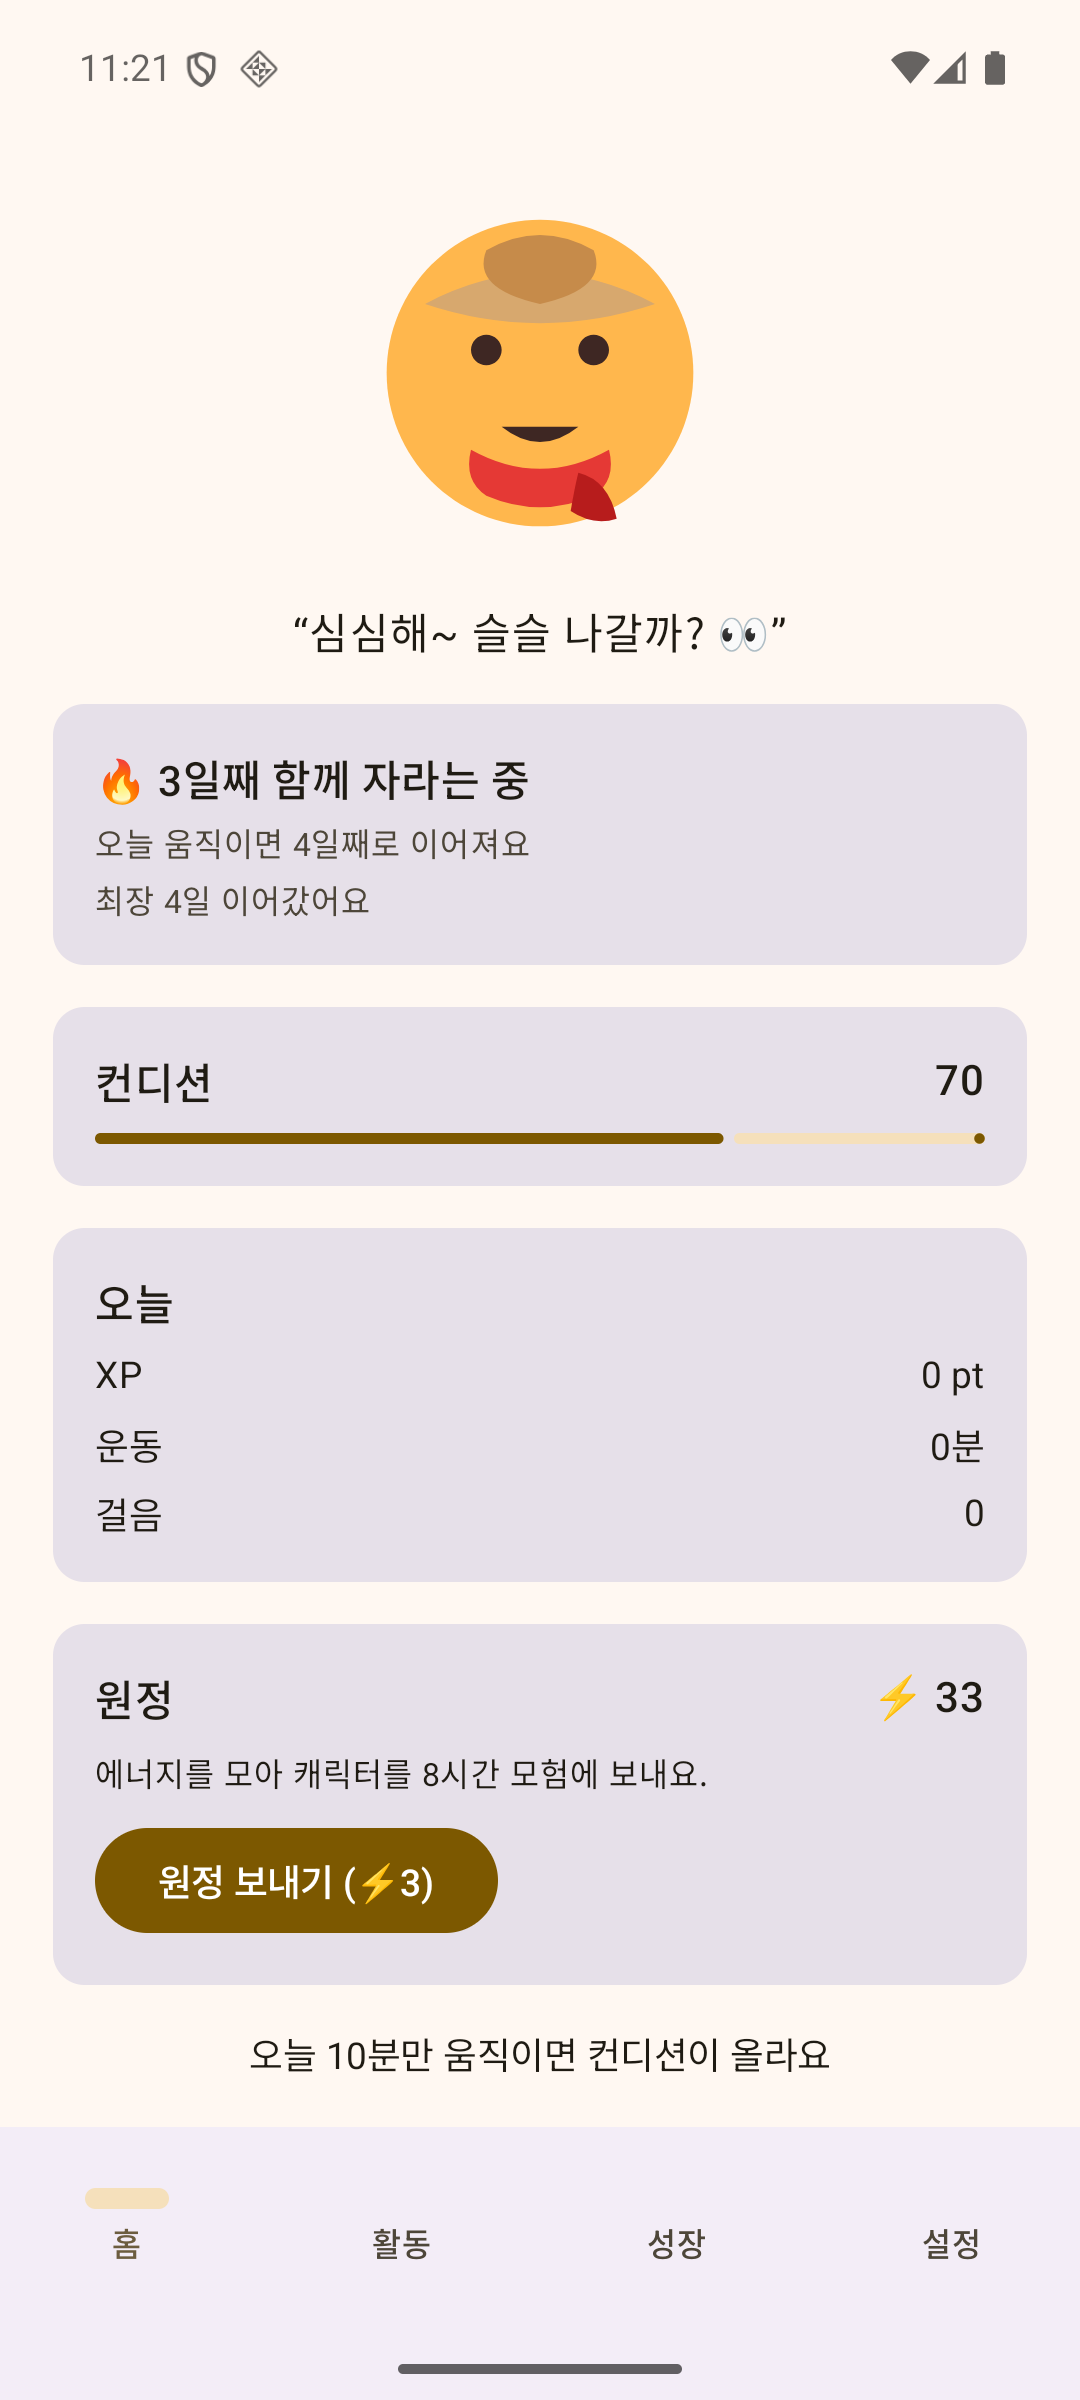
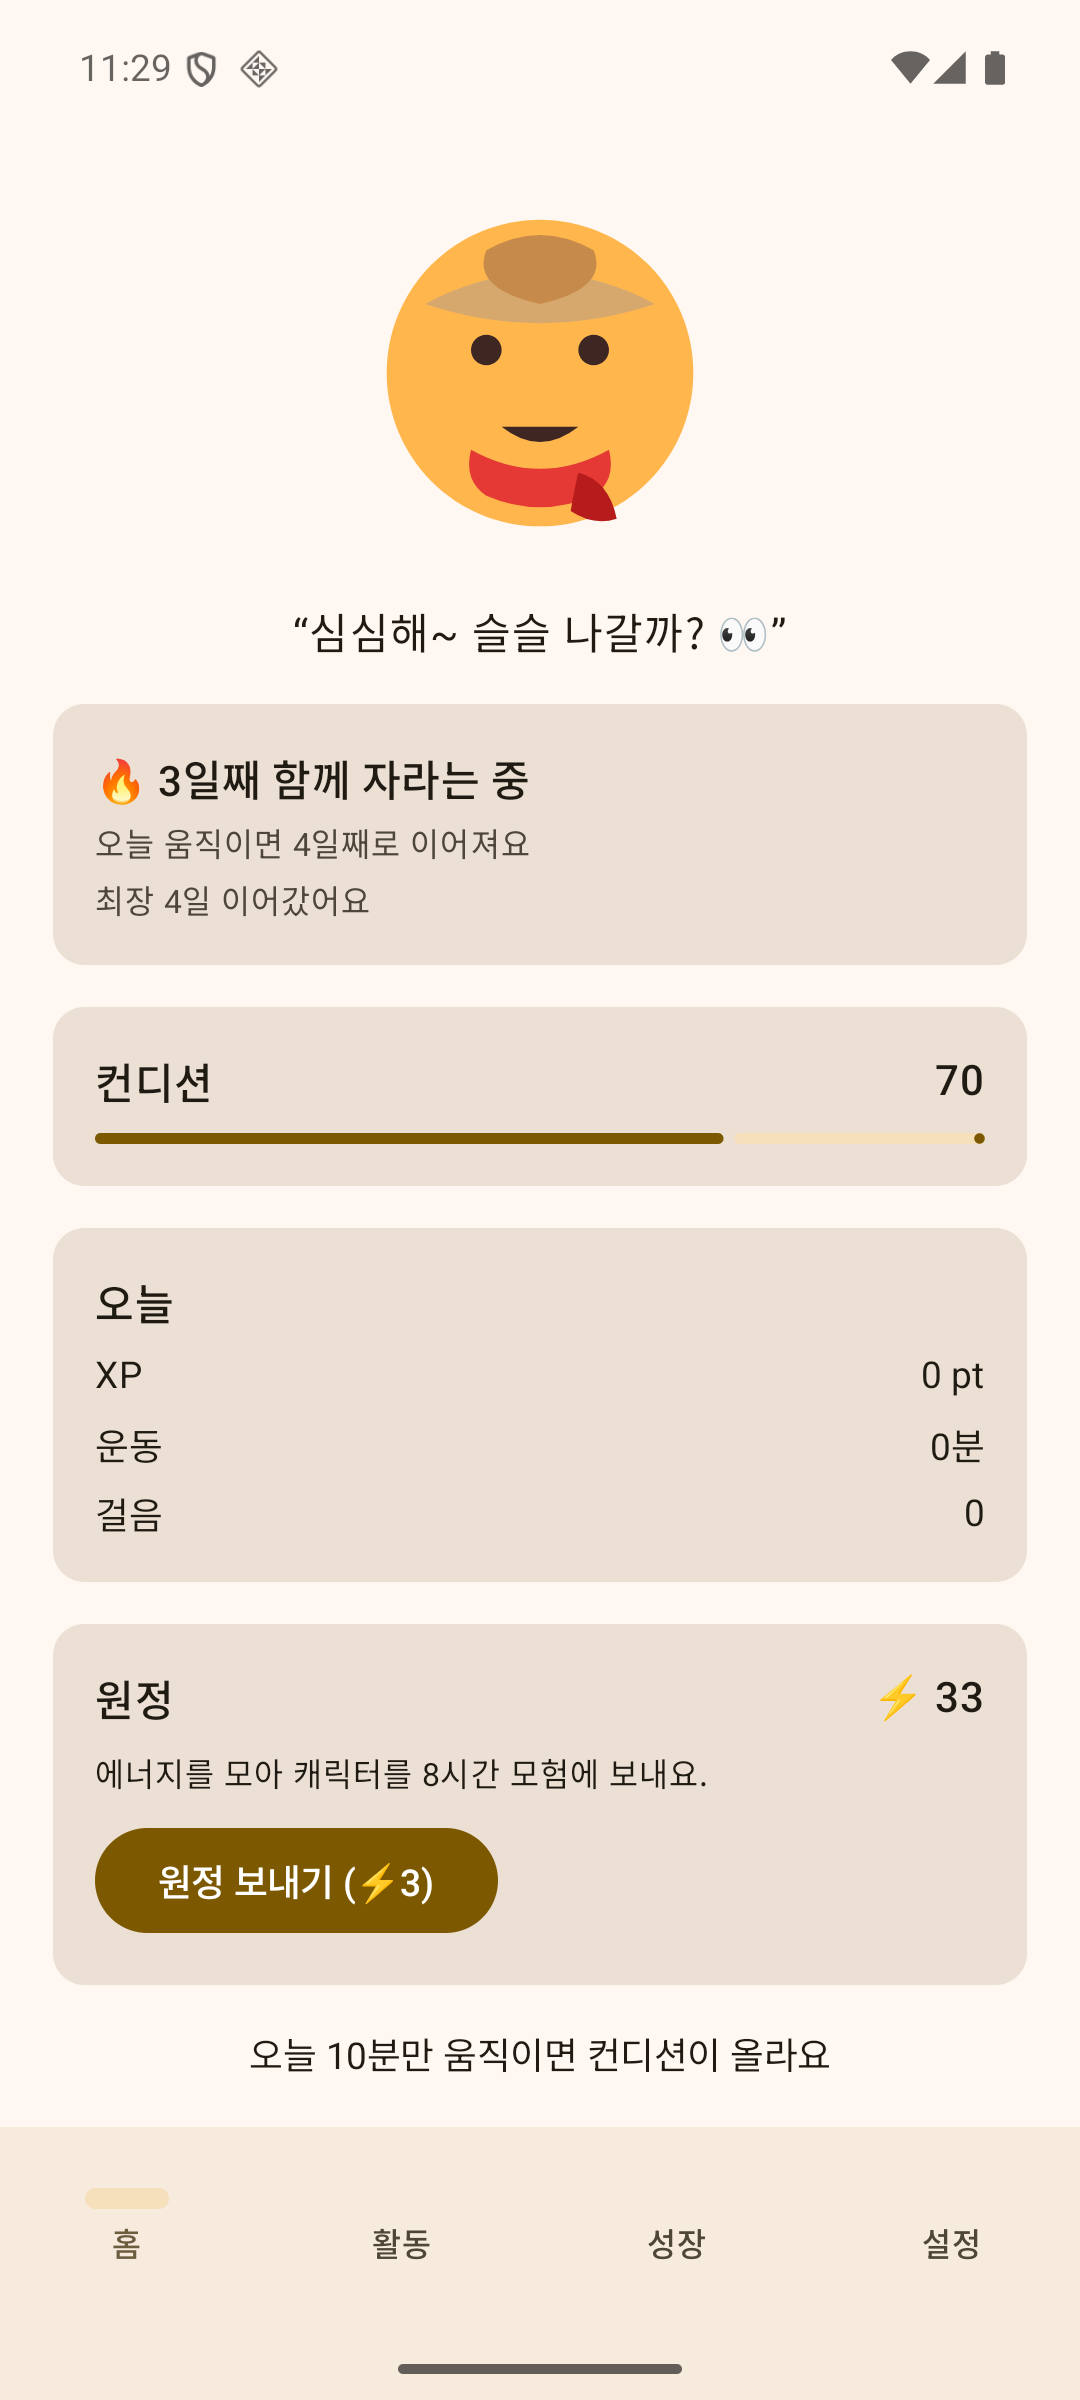
fix(ui): surfaceContainer 롤 채워 카드·내비바 브랜드 톤화 (#251)

Changed region(s): [[0.0, 0.875, 1.0, 1.0]]

diff --git a/kotlin/app/src/main/kotlin/com/nexus/app/ui/NexusColors.kt b/kotlin/app/src/main/kotlin/com/nexus/app/ui/NexusColors.kt
@@ -37,6 +37,15 @@ internal val NexusLightColors = lightColorScheme(
     onSurfaceVariant = Color(0xFF4D4639),
     outline = Color(0xFF7F7767),
     outlineVariant = Color(0xFFD0C5B4),
+    // surfaceContainer 계열 — Card(surfaceContainerLow)·NavigationBar(surfaceContainer) 기본 배경.
+    // 미지정 시 M3 기본 라벤더로 폴백하므로 warm 중성 톤으로 채운다(#251 리뷰).
+    surfaceDim = Color(0xFFE3D7C8),
+    surfaceBright = Color(0xFFFFF8F2),
+    surfaceContainerLowest = Color(0xFFFFFFFF),
+    surfaceContainerLow = Color(0xFFFDF1E4),
+    surfaceContainer = Color(0xFFF7EBDE),
+    surfaceContainerHigh = Color(0xFFF1E6D8),
+    surfaceContainerHighest = Color(0xFFEBE0D3),
 )
 
 internal val NexusDarkColors = darkColorScheme(
@@ -64,4 +73,12 @@ internal val NexusDarkColors = darkColorScheme(
     onSurfaceVariant = Color(0xFFD0C5B4),
     outline = Color(0xFF99917F),
     outlineVariant = Color(0xFF4D4639),
+    // warm 다크 중성 surface 계열 — 카드·내비바가 M3 기본이 아닌 브랜드 톤으로 (#251 리뷰).
+    surfaceDim = Color(0xFF17130B),
+    surfaceBright = Color(0xFF3E3830),
+    surfaceContainerLowest = Color(0xFF110E07),
+    surfaceContainerLow = Color(0xFF1F1B13),
+    surfaceContainer = Color(0xFF241F16),
+    surfaceContainerHigh = Color(0xFF2E2920),
+    surfaceContainerHighest = Color(0xFF39342A),
 )

diff --git a/docs/DESIGN.md b/docs/DESIGN.md
@@ -7,6 +7,7 @@
 - **브랜드 스킴 고정이 기본.** `ui/NexusColors.kt`의 정적 라이트/다크 M3 스킴(`NexusLightColors`/`NexusDarkColors`)을 `NexusTheme`이 주입한다.
 - **톤**: 따뜻·다정(성장 동료). primary는 캐릭터 앰버(#FFB74D)와 어울리는 warm amber, tertiary는 성장의 sage-green. 두 모드 AA 대비.
 - **다이내믹 컬러 정책**: **기본 OFF**(브랜드 고정). 근거 — Android 12+ 다이내믹 컬러를 기본으로 두면 실기기 색이 배경화면 팔레트에 100% 종속돼 앱 고유색이 사라지고, 아이콘·스플래시·데이터 시각화 색과 어긋난다. `NexusTheme(dynamicColor = true)`로 옵트인 가능(갤럭시 One UI 조화 선호 시). 설정 노출은 후속.
+- **surfaceContainer 5단계 + surfaceBright/Dim**을 warm 중성 톤으로 채워 Card(surfaceContainerLow)·NavigationBar(surfaceContainer)가 M3 기본 라벤더로 폴백하지 않게 함(#251 리뷰).
 - 색은 `NexusColors.kt`에서만 정의. 컴포저블은 `MaterialTheme.colorScheme.*` 토큰만 참조.
 
 ## 2. 타이포·모양 (#252, E16-2 예정)